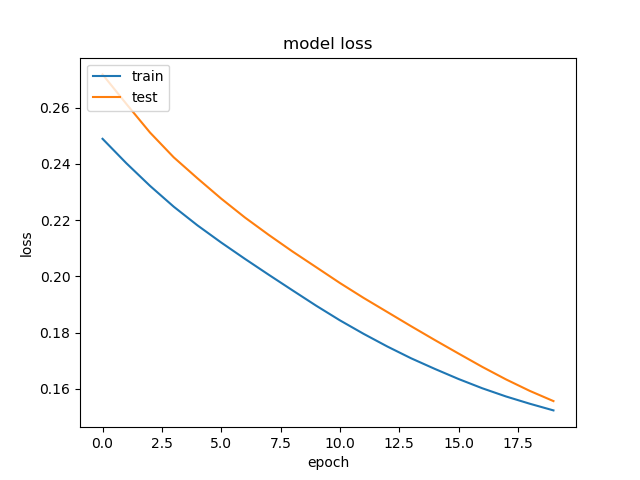
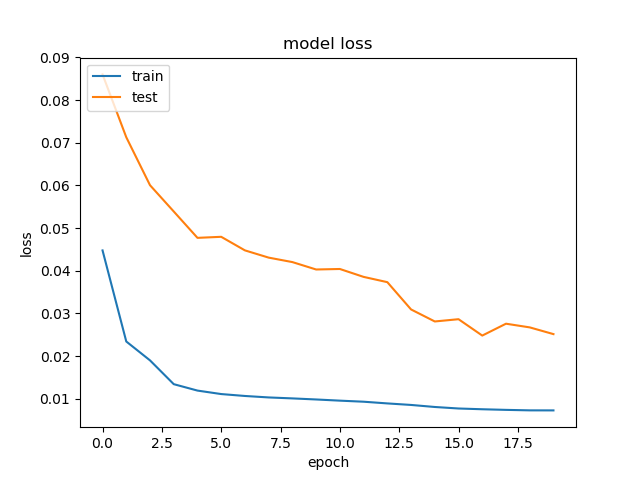
dd

diff --git a/library/auto_encoder.py b/library/auto_encoder.py
@@ -295,15 +295,24 @@ class LstmAutoEncoder2(object):
 
     @staticmethod
     def create_model(batch_size, time_window_size, input_dim, metric):
-        model = Sequential()
-        model.add(Dense(units=5, input_shape=(input_dim,), activation='relu'))
-        # model.add(Dense(units=5,activation='relu'))
-        model.add(Dense(units=input_dim, activation='relu'))
-        adam = optimizers.Adam(lr=0.001, beta_1=0.9, beta_2=0.999, epsilon=None, decay=0.0, amsgrad=False)
-        model.compile(
-            optimizer=adam, loss='mae', metrics=[metric])
-        print(model.summary())
-        return model
+        input_data = Input(shape=(input_dim,))
+        encoded = Dense(input_dim, activation='selu')(input_data)
+        encoded = Dense(5, activation='selu')(encoded)
+        decoded = Dense(5, activation='selu')(encoded)
+        decoded = Dense(input_dim, activation='selu')(decoded)
+ 
+        # 构建自编码模型
+        autoencoder = Model(inputs=input_data, outputs=decoded)
+        autoencoder.compile(optimizer='adam', loss='mae', metrics=[metric])
+        # model = Sequential()
+        # model.add(Dense(units=5, input_shape=(input_dim,), activation='relu'))
+        # # model.add(Dense(units=5,activation='relu'))
+        # model.add(Dense(units=input_dim, activation='relu'))
+        # # adam = optimizers.Adam(lr=0.001, beta_1=0.9, beta_2=0.999, epsilon=None, decay=0.0, amsgrad=False)
+        # model.compile(
+        #     optimizer='adam', loss='mae', metrics=[metric])
+        print(autoencoder.summary())
+        return autoencoder
 
     def load_model(self, model_dir_path):
         config_file_path = LstmAutoEncoder2.get_config_file(model_dir_path)
